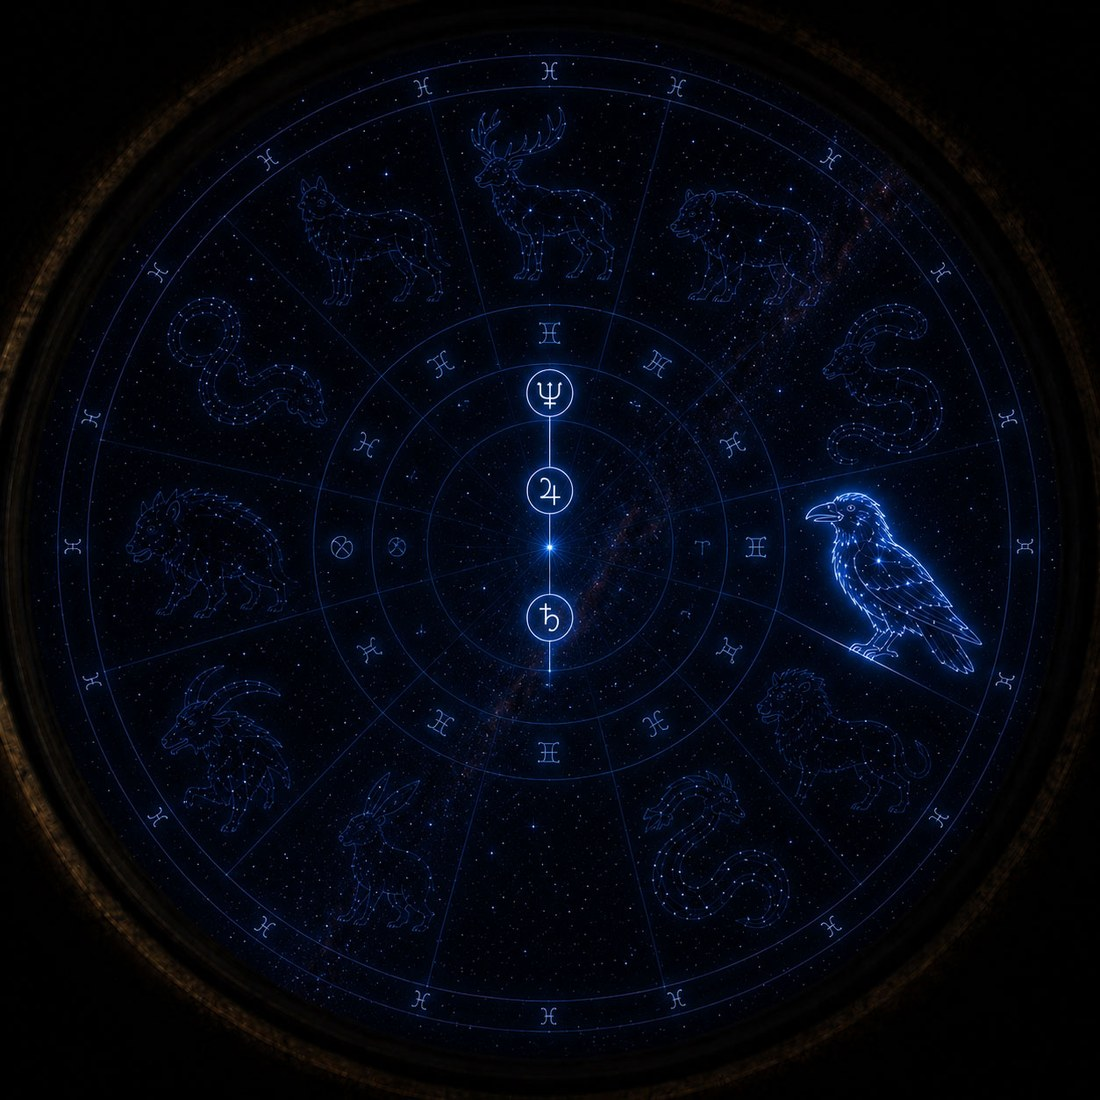
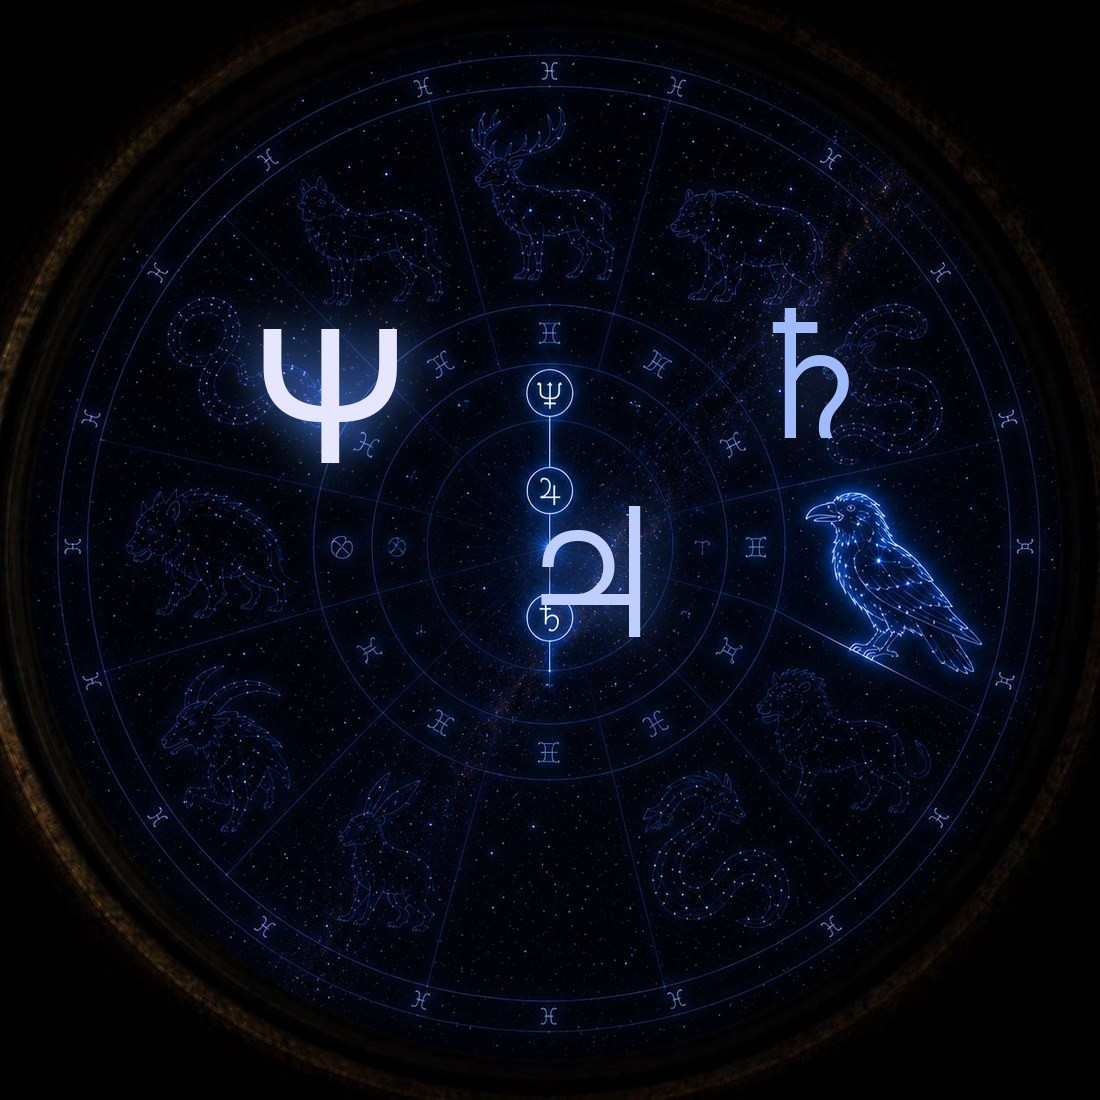
Deel 2: niet door de tovenaar lopen + tekens door de telescoop, geheimschrift op het boek
- Obstakel op de tovenaar + walkTo rechts van hem: met de paddenstoelen (of wat dan ook)
  op hem klikken laat Finn niet meer dwars door hem heen lopen
- De drie tekens (Psi/Jupiter/Saturnus, fel -> zwak) zie je nu DOOR DE TELESCOOP tussen
  de sterren-constellaties (in telescope-view.jpg gebakken), niet meer op het boek
- Op het boek in de nacht-achtergrond gloeit nu alleen magisch GEHEIMSCHRIFT
  (dunne lichtgevende schriftregels op beide pagina's)
- Raaf-hint + quest verwijzen naar: telescoop (tekens) -> boek (tekens-puzzel)
- Cache deel2 v139

Changed region(s): [[0.2164, 0.2782, 0.4018, 0.4327], [0.4945, 0.4636, 0.6182, 0.5873], [0.68, 0.2782, 0.7727, 0.4018]]

diff --git a/games/ravenholt-deel2/js/data.js b/games/ravenholt-deel2/js/data.js
@@ -14,7 +14,7 @@ const GAME = {
   title:      { nl: 'Fluisteringen van Ravenholt — Deel 2', en: 'Whispers of Ravenholt — Part 2' },
   titleLines: { nl: ['Fluisteringen', 'van Ravenholt', '· Deel 2 ·'], en: ['Whispers of', 'Ravenholt', '· Part 2 ·'] },
   startScene: 'courtyard',
-  assetVer: '138',
+  assetVer: '139',
 
   /* Finn — vaste figuur: roodharige jongen, blauwe kapmantel, leren tas, houten staf.
      idle = hero, lopen = 4-frame loopsheet (heroWalkSheet), zwaaien = heroWave.
@@ -132,7 +132,7 @@ const GAME = {
     q_takespell:{ nl: 'De tovenaar zweeft in hogere sferen — bekijk het ZONNESTELSEL op de sokkel rechts en draai de hemelschijf: daar wacht de Zonsverduistering-spreuk', en: 'The wizard floats among the stars — examine the SOLAR SYSTEM on the pedestal to the right and turn the celestial disc: the Solar Eclipse spell awaits' },
     q_castEclipse:{ nl: 'Je hebt de Zonsverduistering-spreuk! Tik hem aan in je tas en spreek hem uit bij het grote raam van de bibliotheek', en: 'You have the Solar Eclipse spell! Tap it in your bag and speak it at the great library window' },
     q_telescope:{ nl: 'De zon is verduisterd en de sterren fonkelen — kijk snel door de telescoop bij het raam!', en: 'The sun is darkened and the stars sparkle — quick, look through the telescope by the window!' },
-    q_readbook: { nl: 'De zon is verduisterd — er gloeien blauwe tekens op het boek! Alléén nu kun je het lezen: tik het aan en los de tekens-puzzel op voor de ONZICHTBAARHEIDSSPREUK', en: 'The sun is eclipsed — blue signs glow on the book! Only now can you read it: tap it and solve the signs puzzle for the INVISIBILITY SPELL' },
+    q_readbook: { nl: 'De zon is verduisterd! Kijk door de telescoop — drie tekens fonkelen tussen de sterren — en lees dan het gloeiende boek: los de tekens-puzzel op voor de ONZICHTBAARHEIDSSPREUK', en: 'The sun is eclipsed! Look through the telescope — three signs sparkle among the stars — then read the glowing book: solve the signs puzzle for the INVISIBILITY SPELL' },
     q_altar:    { nl: 'De onzichtbaarheidsspreuk is binnen! Open nu de geheime deur: zet de drie blauwe tekens Ψ ♃ ♄ op het sterren-altaar — elk in het gouden vakje — en trek aan de hendel', en: 'The invisibility spell is yours! Now open the secret door: set the three blue signs Ψ ♃ ♄ on the star altar — each in its golden box — and pull the lever' },
     q_dungeon:  { nl: 'De geheime deur staat open! Daal de trap af naar de kerker. Een wachter verspert de weg naar de gevangene — tik de onzichtbaarheidsspreuk aan om ongezien langs hem te sluipen', en: 'The secret door is open! Descend the stair to the dungeon. A guard blocks the way to the prisoner — tap the invisibility spell to slip past him unseen' },
     q_freefather:{ nl: 'Je bent onzichtbaar langs de wachter! Praat met de gevangene bij de tralies — hij fluistert de volgorde van het kerkerslot: zon, maan, ster... en het teken van zijn staf', en: 'You slipped past the guard unseen! Talk to the prisoner at the bars — he whispers the order of the dungeon lock: sun, moon, star... and the sign of his staff' },
@@ -795,7 +795,8 @@ const GAME = {
       ],
       obstacles: [
         { x: 308, y: 206, w: 48, h: 50 },                  // de lessenaar zelf
-        { x: 416, y: 244, w: 118, h: 60 }                  // de altaar-sokkel met het zonnestelsel — niet doorheen lopen
+        { x: 416, y: 244, w: 118, h: 60 },                 // de altaar-sokkel met het zonnestelsel — niet doorheen lopen
+        { x: 160, y: 238, w: 56, h: 34 }                   // de tovenaar zelf — je loopt niet dwars door hem heen
       ],
       overlays: [],
       fx: {},
@@ -832,7 +833,7 @@ const GAME = {
             : state.flags.gotInvisSpell
             ? { nl: '\u201CKrra! De onzichtbaarheidsspreuk is van jou! Zet nu de drie blauwe tekens op het sterren-altaar daar rechts \u2014 elk in het gouden vakje \u2014 en trek aan de hendel: dan zwaait de geheime deur open.\u201D', en: '\u201CCaw! The invisibility spell is yours! Now set the three blue signs on the star altar to the right \u2014 each in its golden box \u2014 and pull the lever: the secret door will swing open.\u201D' }
             : state.flags.eclipseActive
-            ? { nl: '\u201CKrra! De zon is gedoofd \u2014 kijk, er gloeien blauwe tekens op het gloeiende boek! Lees het N\u00DA en los de tekens-puzzel op, voordat het licht terugkeert.\u201D', en: '\u201CCaw! The sun is dark \u2014 look, blue signs glow on the glowing book! Read it NOW and solve the signs puzzle, before the light returns.\u201D' }
+            ? { nl: '\u201CKrra! De zon is gedoofd \u2014 kijk door de TELESCOOP: drie tekens fonkelen tussen de sterren, van fel naar zwak! En op het gloeiende boek gloeit geheimschrift \u2014 lees het en los de tekens-puzzel op.\u201D', en: '\u201CCaw! The sun is dark \u2014 look through the TELESCOPE: three signs sparkle among the stars, bright to faint! And secret script glows on the glowing book \u2014 read it and solve the signs puzzle.\u201D' }
             : state.flags.gotEclipseSpell
             ? { nl: '\u201CKrra! Je hebt de spreuk! Tik hem aan in je tas en spreek hem uit \u2014 dan dooft de zon en tonen de geheime tekens zich in het boek.\u201D', en: '\u201CCaw! You have the spell! Tap it in your bag and speak it \u2014 the sun will darken and the secret signs will show in the book.\u201D' }
             : state.flags.wizardTripping
@@ -850,7 +851,7 @@ const GAME = {
           id: 'librarian',
           name: { nl: 'De Tovenaar', en: 'The Wizard' },
           rect: { x: 174, y: 140, w: 54, h: 122 },
-          walkTo: { x: 168, y: 256 },
+          walkTo: { x: 244, y: 268 },
           look: (state) => state.flags.wizardTripping
             ? { nl: 'De oude tovenaar zweeft bijna. Hij staart met grote ogen naar het plafond en giechelt: \u201CDe sterren... de sterren d\u00E1nsen! Ik zie de hemelwielen draaien...\u201D Het gloeiende boek ziet hij allang niet meer.', en: 'The old wizard is practically floating. He stares wide-eyed at the ceiling and giggles: \u201CThe stars... the stars are DANCING! I can see the heavens turning...\u201D He has long forgotten the glowing book.' }
             : { nl: 'Een oude tovenaar met een lange grijze baard tuurt in het gloeiende boek. \u201CNiemand raakt de sterrenspreuken aan!\u201D bromt hij. Maar zijn neus snuffelt dromerig... alsof hij ergens naar hunkert. (De raaf op de vensterbank grinnikt: \u201CKrra... paddenstoelen!\u201D)', en: 'An old wizard with a long grey beard peers into the glowing book. \u201CNo one touches the star spells!\u201D he grumbles. But his nose sniffs dreamily... as if he craves something. (The raven on the sill snickers: \u201CCaw... mushrooms!\u201D)' },

diff --git a/games/ravenholt-deel2/index.html b/games/ravenholt-deel2/index.html
@@ -26,7 +26,7 @@
   <link rel="preconnect" href="https://fonts.googleapis.com">
   <link rel="preconnect" href="https://fonts.gstatic.com" crossorigin>
   <link href="https://fonts.googleapis.com/css2?family=Crimson+Pro:ital,wght@0,400;0,600;1,400&family=Pixelify+Sans:wght@400;600&display=swap" rel="stylesheet">
-  <link rel="stylesheet" href="css/style.css?v=138">
+  <link rel="stylesheet" href="css/style.css?v=139">
   <script type="application/ld+json">
   {
     "@context": "https://schema.org",
@@ -125,7 +125,7 @@
   </div>
 
   <div id="title-screen" class="overlay title">
-    <img class="title-bg" src="assets/art/title.jpg?v=138" alt="Whispers of Ravenholt" onerror="this.remove()">
+    <img class="title-bg" src="assets/art/title.jpg?v=139" alt="Whispers of Ravenholt" onerror="this.remove()">
     <div class="title-content">
       <h1 id="title-h1" hidden><span>Whispers of</span><br><span>Ravenholt</span></h1>
       <p id="title-sub" class="subtitle" hidden>Een point-and-click avontuur</p>
@@ -146,7 +146,7 @@
 
   <div id="win-screen" class="overlay" hidden>
     <div class="overlay-card panel">
-      <img class="win-banner" src="assets/art/win-deel2.jpg?v=138" alt="" onerror="this.remove()">
+      <img class="win-banner" src="assets/art/win-deel2.jpg?v=139" alt="" onerror="this.remove()">
       <h1 id="win-h1">Deel 1 uitgespeeld!</h1>
       <p class="intro" id="winText"></p>
       <button id="replayBtn" class="gold-btn">Opnieuw spelen</button>
@@ -296,10 +296,10 @@
     </div>
   </div>
 
-  <script src="js/sprites.js?v=138"></script>
-  <script src="js/scenes.js?v=138"></script>
-  <script src="js/data.js?v=138"></script>
-  <script src="js/engine.js?v=138"></script>
+  <script src="js/sprites.js?v=139"></script>
+  <script src="js/scenes.js?v=139"></script>
+  <script src="js/data.js?v=139"></script>
+  <script src="js/engine.js?v=139"></script>
   <script>
     if ('serviceWorker' in navigator) {
       window.addEventListener('load', () => {

diff --git a/games/ravenholt-deel2/sw.js b/games/ravenholt-deel2/sw.js
@@ -4,7 +4,7 @@
    offline beschikbaar wilt hebben (optioneel — niet-vermelde bestanden worden bij
    eerste gebruik alsnog gecachet). */
 
-const CACHE = 'ravenholt2-v138';
+const CACHE = 'ravenholt2-v139';
 
 const PRECACHE = [
   './',
